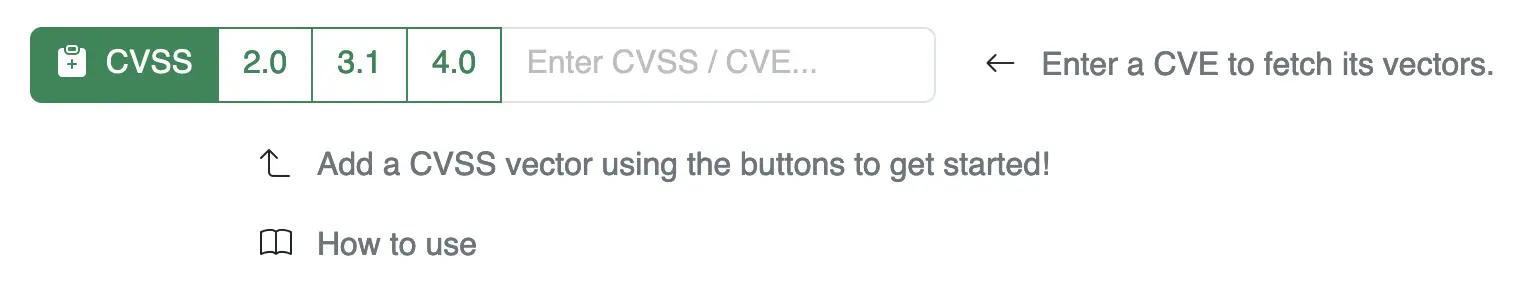
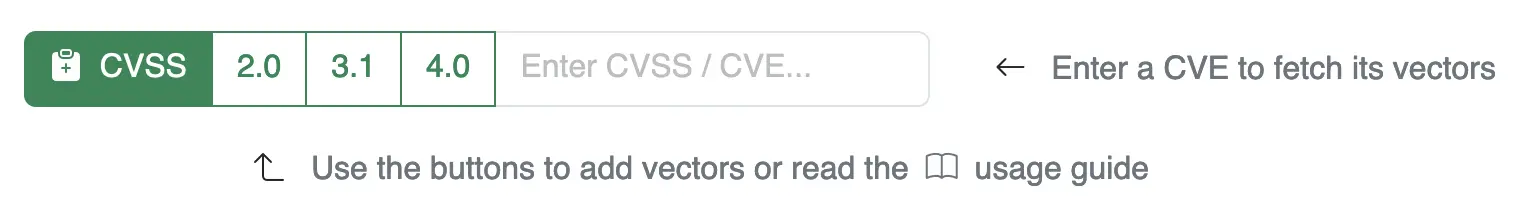
- Made every element except text fields draggable in vector list. - Updated "How to add CVSS vectors" image to match current layout.

diff --git a/site/js/scripts.js b/site/js/scripts.js
@@ -70,17 +70,22 @@ class CvssVectorRepresentation {
         });
 
         // drag and drop support for moving the element up and down in its container and the cvss vector list
-        this.scoreDisplayButton.setAttribute('draggable', 'true');
-        this.scoreDisplayButton.addEventListener('dragstart', event => {
-            event.dataTransfer.setData('text/plain', this.uniqueId);
-            event.dataTransfer.effectAllowed = 'move';
-            this.domElement.classList.add('dragging');
-            unregisterAllTooltips(this.scoreDisplayButton);
-        });
-        this.scoreDisplayButton.addEventListener('dragend', event => {
-            this.domElement.classList.remove('dragging');
-            updateTooltip(this.scoreDisplayButton);
-        });
+        const draggableElements = [this.scoreDisplayButton, this.copyVectorToClipboardButton, this.visibilityToggleButton, this.cloneButton, this.removeButton];
+
+        for (let draggableElement of draggableElements) {
+            draggableElement.setAttribute('draggable', 'true');
+            draggableElement.addEventListener('dragstart', event => {
+                event.dataTransfer.setData('text/plain', this.uniqueId);
+                event.dataTransfer.effectAllowed = 'move';
+                this.domElement.classList.add('dragging');
+                unregisterAllTooltips(draggableElement);
+            });
+            draggableElement.addEventListener('dragend', event => {
+                this.domElement.classList.remove('dragging');
+                updateTooltip(draggableElement);
+            });
+        }
+
         this.domElement.addEventListener('dragover', event => {
             event.preventDefault();
             event.dataTransfer.dropEffect = 'move';
